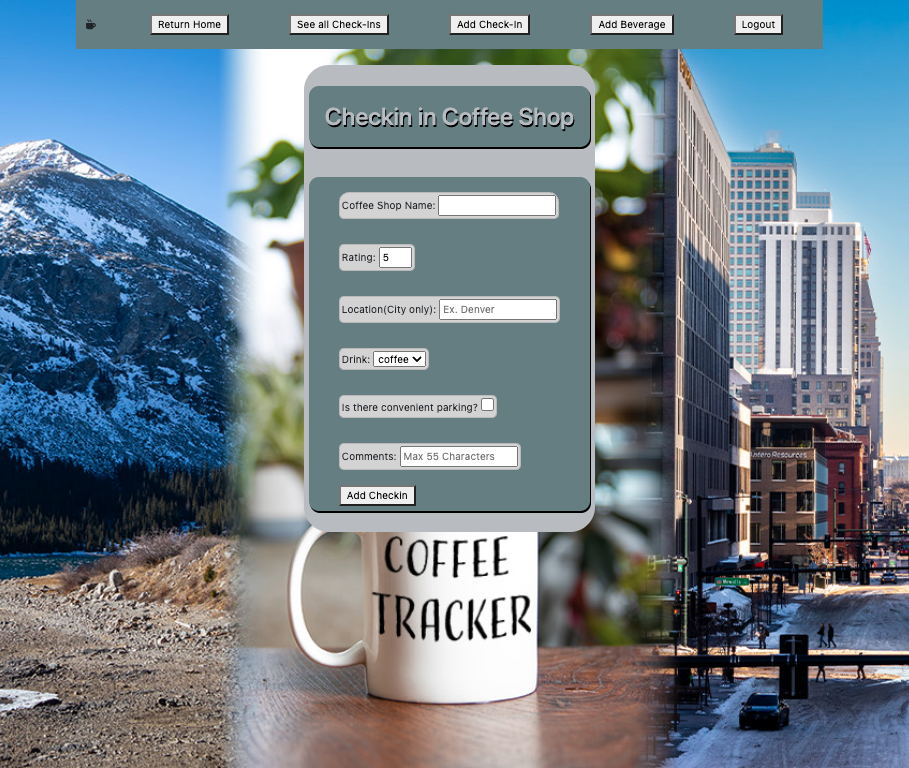
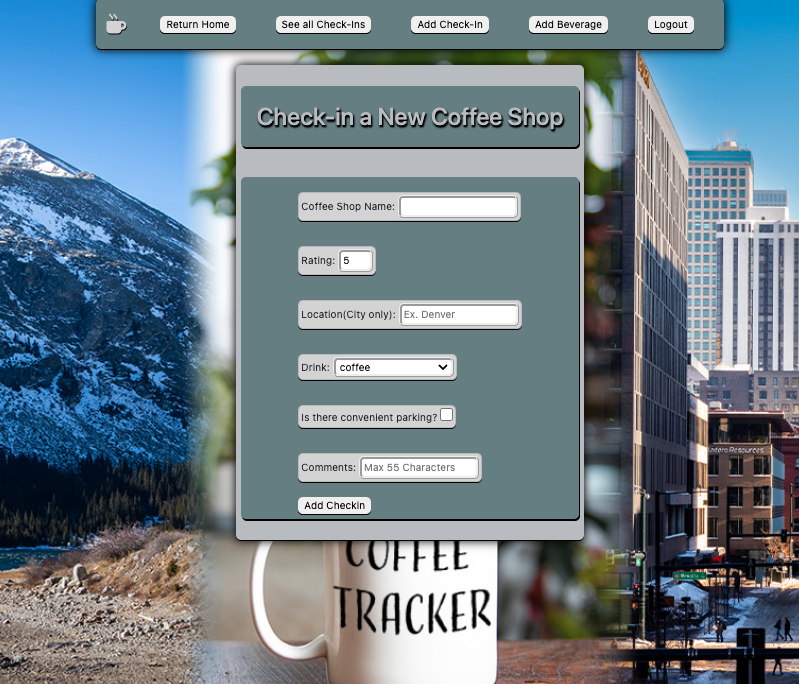
remove nav button, edit README.md, and edit css

diff --git a/public/stylesheets/style.css b/public/stylesheets/style.css
@@ -89,6 +89,21 @@ nav > a {
   box-shadow: .5px 1px .5px black, .5px 1px .5px black;
 }
 
+.return-home {
+  width: 34px;
+  object-fit: contain;
+  margin-right: auto;
+  font-size: 2rem;
+  color: #efefef;
+  text-shadow: .5px 1px .5px black;
+}
+
+.return-home:hover {
+  color: #b8bbc0;
+}
+
+
+
 button:hover{
   background-color: #b8bbc0;
 }

diff --git a/README.md b/README.md
@@ -32,8 +32,8 @@ While living in Denver, Colorado, I have not had a short supply of coffee shops 
 ![](public/assets/screenshots/home-page.png)
 <br>
 
-### Check-in Page:
-![](public/assets/screenshots/checkin-page.png)
+### All Check-ins Page:
+![](public/assets/screenshots/checkins-page.png)
 <br>
 
 ### Add New Check-in Page:
@@ -41,7 +41,7 @@ While living in Denver, Colorado, I have not had a short supply of coffee shops 
 <br>
 
 ### Add Beverage Page
-![](public/assets/screenshots/new-checkin-page.png)
+![](public/assets/screenshots/add-beverage-page.png)
 <br>
 
 ---
